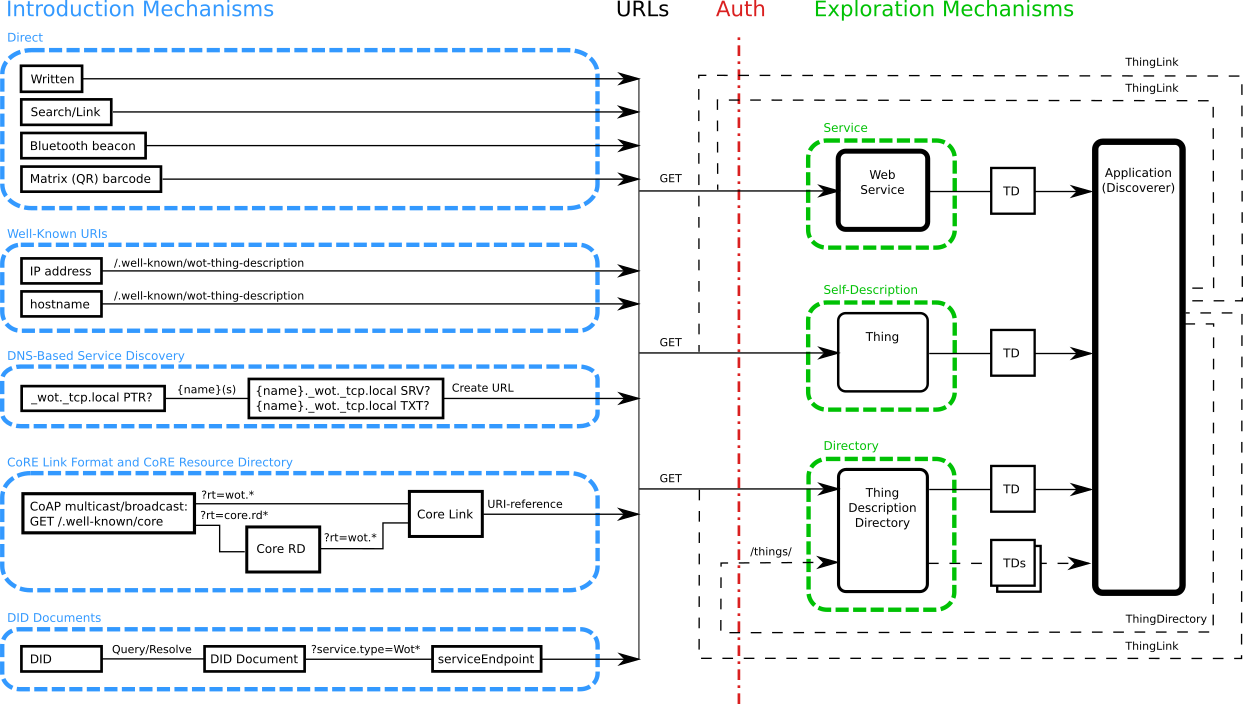
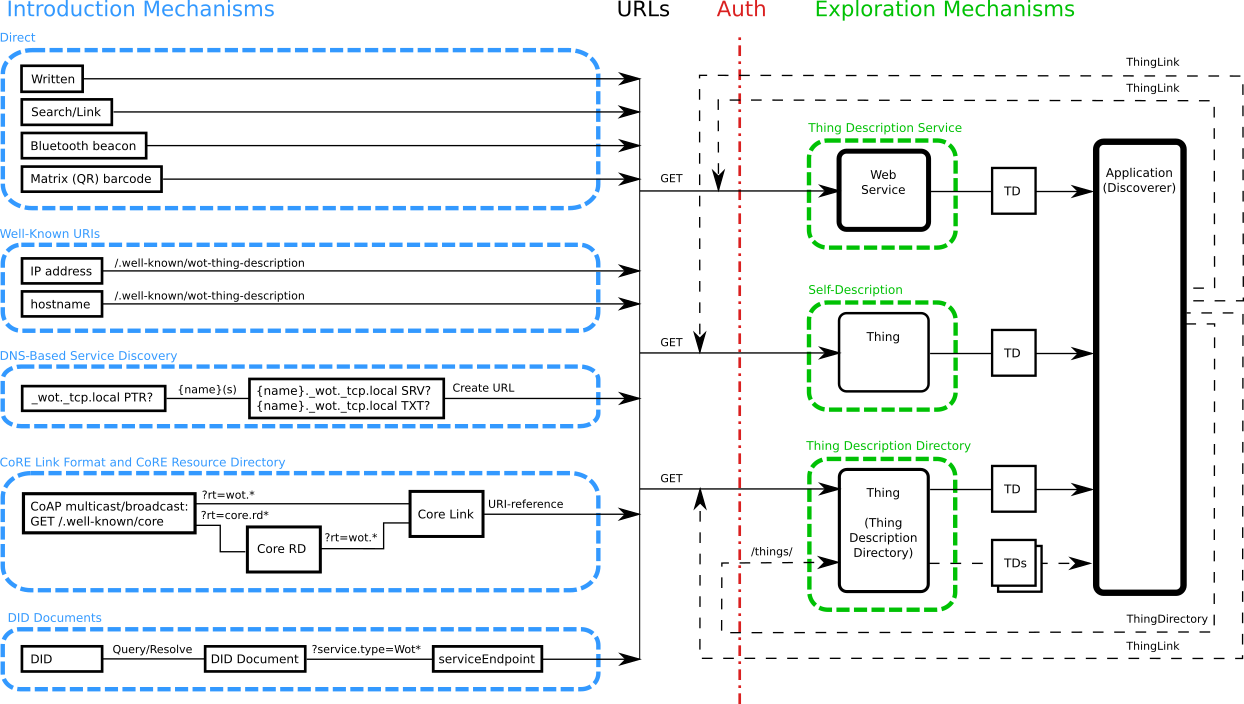
Service -> Thing Description Service

diff --git a/index.html b/index.html
@@ -288,7 +288,7 @@ img.wot-diagram {
          mechanisms to provide a starting point for the rest of the Discovery process.
          In this document we specify details on several Introduction
          mechanisms, suitable for different use cases, including both local and non-local
-         scenarios, but Introductions can in fact be provided any mechanism that can return a URL.
+         scenarios, but Introductions can in fact be provided by any mechanism that can return a URL.
 	       Introductions, however, do not include any security or privacy controls and
 	       so should not provide metadata directly. 
          Instead, the URLs provided by Introduction mechanisms reference
@@ -990,7 +990,7 @@ img.wot-diagram {
         </section>
 
         <section id="exploration-service" class="normative">
-            <h2>Service</h2>
+            <h2>Thing Description Service</h2>
             <p>
              Any web service that can be referenced by a URL and return a TD with
              appropriate authentication and access controls can be used as an
@@ -1083,7 +1083,7 @@ img.wot-diagram {
         </section>
         
         <section id="exploration-self" class="normative">
-            <h2>Self-description</h2>
+            <h2>Self-Description</h2>
             <p>
                 Self-description is an exploration mechanism in which a <a>Thing</a>
                 hosts its own <a>TD</a> and makes it available via a URL.
@@ -1177,7 +1177,7 @@ img.wot-diagram {
 
         </section>
         <section id="exploration-directory" class="normative">
-            <h2>Directory</h2>
+            <h2>Thing Description Directory</h2>
             <p>
              A <a>Thing Description Directory</a> (TDD or Directory for short) is a self-describing
              <a>Thing</a> that provides a service to manage a set of TDs describing other Things.
